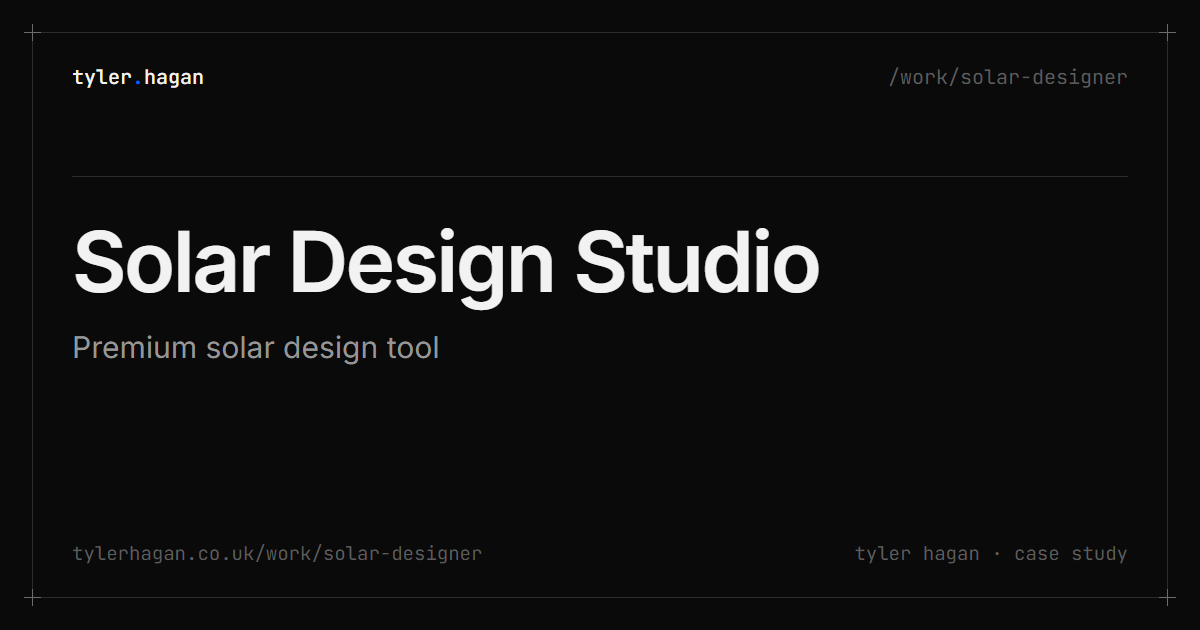
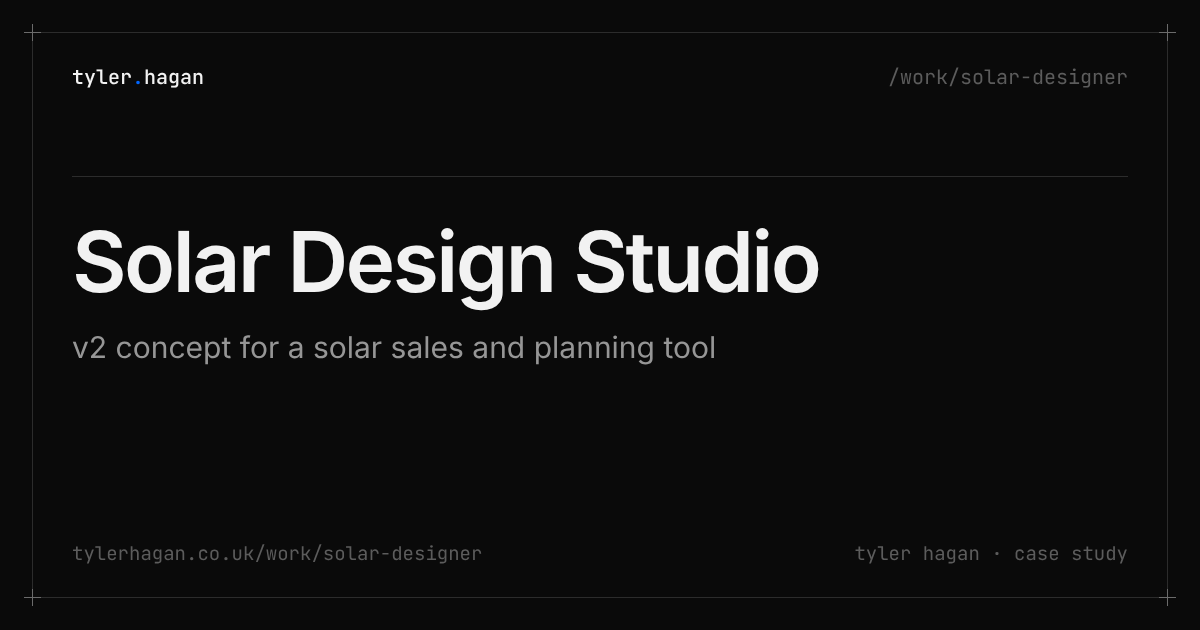
Solar Design Studio v2 case study
Replace the 2023 Solar Design Studio page with the v2 concept: one plan
checked live against installation rules, a planner workspace and an
answer-first customer view. Seven new figures, an annotated v1, and the
page now uses the sectioned case study layout shared with EIGENAPP v2.

diff --git a/src/utils/projectsData.js b/src/utils/projectsData.js
@@ -452,28 +452,148 @@ export const projectsData = {
 
   'solar-designer': {
     title: 'Solar Design Studio',
-    subtitle: 'Premium solar design tool',
-    summary: 'Premium solar design tool with Salesforce integration. Collaborated with engineering and sales to create intuitive design experience.',
-    year: '2023',
-    status: 'Active Use',
-    role: 'Senior Product Designer',
-    timeline: '2023',
-    tools: ['React', 'Figma', 'Salesforce', 'Prototyping', 'Usage Analysis', 'Storybook'],
+    subtitle: 'v2 concept for a solar sales and planning tool',
+    summary: 'A fresh concept for the solar design tool I shipped at EIGENSONNE: one plan checked live against installation rules, shown as a dense workspace for planners and a calm, answer-first view for the customer.',
+    year: '2026',
+    status: 'v1 in active use · v2 unreleased concept',
+    role: 'Product Designer (v1) · concept by me',
+    timeline: 'v1 2023 · concept 2026',
+    tools: ['Figma', 'React', 'Salesforce', 'Storybook', 'Prototyping'],
     company: 'EIGENSONNE',
-    platform: 'Web (Salesforce)',
-    scope: 'UX/UI, prototyping, usage analysis',
-    heroImage: { src: '/img/solar-designer/main-layout.webp', alt: 'Solar Design Studio main planning layout' },
-    overview: {
-      description: 'Collaborated closely with engineering, planning, and sales teams to develop a premium solar design tool with tight Salesforce integration.',
-      challenge: 'Sales teams needed a sophisticated design tool that felt approachable. The tool needed to be usable by power user planners, and by sales users in video and in-person sales calls.',
-      challengeImages: [
-        { src: '/img/solar-designer/loading.png', caption: 'Designer Loading from Customer Data' },
-        { src: '/img/solar-designer/select-planning.webp', caption: 'Existing Offer or New Offer with Photo' },
-        { src: '/img/solar-designer/quote-component.png', caption: 'Example quote item component' }
-      ],
-      solution: 'Designed a full-screen immersive interface with guided workflows. Leveraged AI tools to generate multiple design variations quickly. Built extensive prototype in Figma to validate interaction patterns.',
-      solutionImage: '/img/solar-designer/main-layout.webp'
-    },
-    impact: 'Significantly reduced error rates, increased sales call final conversion rates, reduced time to sale and improved NPS scores dramatically.'
+    platform: 'Web and tablet, inside the CRM',
+    scope: 'Product strategy, interaction model, UX, UI, design system',
+    outcomeTitle: 'Solar Design Studio v2: one plan, two conversations',
+    heroImage: { src: '/img/solar-designer-v2/01-hero-planner-and-tablet.webp', alt: 'Solar Design Studio v2: the planner workspace and the customer view on a tablet' },
+    brief: `Sales reps and planners shared one tool but not one truth. Reps could sell layouts that planners later had to redraw, and customers watched someone operate software instead of seeing their own home. v2 treats the plan as the product: one plan, checked live against installation rules, shown through two surfaces, a dense workspace for planners and a calm, answer-first view for the customer. Error prevention moves to the moment of selling, and a rep can go from an address to a sendable, installable offer in one call.`,
+    sections: [
+      {
+        title: 'Context',
+        paragraphs: [
+          `EIGENSONNE sold premium residential solar, mostly through video calls and home visits. Every sale depended on a design step: someone had to place panels on the customer's roof, choose an inverter and battery, and turn that into a price.`,
+          `I designed the first Solar Design Studio in 2023, about two years after moving from front-end engineering into product design. It lived inside Salesforce, loaded straight from the customer record, and had a simple mode for customer calls and a full mode for planners. It worked: fewer planning errors, more calls converting, a shorter time to sale and better NPS.`,
+          `Looking at it now, I can also see where it was an interface answer to a system problem. This concept is what I would design today.`
+        ]
+      },
+      {
+        title: 'What v1 got right, and where it fell short',
+        paragraphs: [
+          `v1 had good instincts. Loading from the CRM record removed retyping, two modes acknowledged two very different users, and the full-screen layout kept attention on the roof. Looking again:`
+        ],
+        bullets: [
+          `The photo was the hero, but not the truth. Panels drawn onto a facade photo looked convincing, but a perspective photo can't be measured. Planners often redrew layouts from scratch.`,
+          `Two modes, two tools. Simple and full mode were separate interfaces, so a change made in front of the customer didn't always survive into planning.`,
+          `Errors were found late. Setbacks, fire wall distances and string limits were checked after the call, when the customer already had a number in their head.`,
+          `Variations without a decision. We could generate several designs quickly, but nothing helped a rep compare them or explain why one was better.`,
+          `Interface over home. In customer mode the customer still looked at accordions of components rather than at their house and what it would do for them.`
+        ],
+        images: [
+          { src: '/img/solar-designer-v2/02-v1-before.webp', caption: 'v1 with four annotations' }
+        ]
+      },
+      {
+        title: "The job isn't drawing panels",
+        paragraphs: [
+          `The tool's real job is getting to a plan that is sellable and installable at the same time, ideally within one conversation. That changed the question from "how do we make drawing easier?" to "how do we make an uninstallable plan impossible to sell?"`,
+          `Two people use the tool for very different reasons. The rep needs speed, confidence and a story. The planner needs precision and a record of every decision. Both work on the same plan, so the plan became the core of the product and every screen became a view of it.`
+        ]
+      },
+      {
+        title: 'Principles for v2',
+        bullets: [
+          `One plan, many views. Planner workspace, customer view and offer all read and write the same plan. Nothing is copied between modes.`,
+          `Constraints are material. Installation rules shape what can be placed, live, instead of arriving as errors after the call.`,
+          `Show confidence. Anything detected automatically says how sure it is, and stays marked until a person confirms it.`,
+          `Answer first for the customer. Lead with what the system will do for this household. The hardware list is one tap away.`,
+          `Hand over, don't throw over. The offer leaves with everything planning needs, and says clearly what is still open.`
+        ]
+      },
+      {
+        title: 'Start from the address, not a blank roof',
+        paragraphs: [
+          `The customer record already holds the address, annual consumption and notes from the first contact. The studio opens on aerial imagery and an elevation model, detects roof planes with their pitch and orientation, and marks obstructions like chimneys and skylights. The rep keeps talking while it reads.`,
+          `Every detection carries a confidence level. Anything below high becomes a small confirm task, settled on the call with a photo from the customer. The facade photo from v1 survives, but as evidence rather than as the drawing surface.`
+        ],
+        images: [
+          { src: '/img/solar-designer-v2/03-reading-and-capture.webp', caption: 'Reading the roof, then the roof detected with one item to confirm' }
+        ]
+      },
+      {
+        title: 'Three options, each with a reason',
+        paragraphs: [
+          `Instead of a pile of generated variations, the studio proposes three options along one axis the customer understands: how independent do you want to be? Each is checked against every installation rule before it's shown.`,
+          `The recommended option carries a short, rule-based reason built from what we already know: their consumption, a planned electric car, the limits of the roof. Underneath, one chart answers the question customers always ask next: what about winter?`
+        ],
+        images: [
+          { src: '/img/solar-designer-v2/04-compare.webp', caption: 'Three valid options on one axis, with the month-by-month picture underneath' }
+        ]
+      },
+      {
+        title: "A workspace that won't let you build the wrong thing",
+        paragraphs: [
+          `The planner surface is dense on purpose. Modules snap to valid zones only, and keep-out areas (roof edges, fire wall distance, the skylight) are drawn on the roof instead of listed in a dialog. Strings are coloured in place, so layout and electrical design become one activity.`,
+          `A live checks panel separates what blocks installation from what only costs yield, and shows that cost in kWh per year. Shade is checked at the moments that matter, a winter morning or a summer evening, rather than played back like a timeline. Overrides are possible, but each one needs a reason and is flagged for review.`
+        ],
+        images: [
+          { src: '/img/solar-designer-v2/05-planner.webp', caption: 'Keep-out zones, strings in place, a refused placement and the sun and shade card' }
+        ]
+      },
+      {
+        title: 'The customer sees their home, not the tool',
+        paragraphs: [
+          `On a tablet at the kitchen table, or shared during a video call, the customer sees their own house with panels on it and one sentence that answers the question they actually have. The controls cover the decisions that matter to them: battery, wallbox, buy or rent.`,
+          `Every change recalculates against the same rules, so nothing a rep shows in the room can turn into a redraw later. On a call, the rep can point at the house while the customer follows on their own screen.`
+        ],
+        images: [
+          { src: '/img/solar-designer-v2/06-present-tablet-and-call.webp', caption: 'On a tablet for home visits, and shared on a video call' }
+        ]
+      },
+      {
+        title: 'An offer that knows what is still open',
+        paragraphs: [
+          `Sending the offer writes the plan, the price and a readiness check back to the CRM opportunity. Open items are visible to everyone (a missing photo of the meter cabinet, an override waiting for review), so the planner starts from a clear picture rather than a phone call.`,
+          `When the customer accepts, the handover completes on its own: a named planner, a provisional installation week and the grid registration submitted. The customer's confirmation repeats the same promise, and the rep has nothing left to chase.`
+        ],
+        images: [
+          { src: '/img/solar-designer-v2/07-offer-and-handover.webp', caption: 'Offer sent with one item open, then accepted and handed over' }
+        ]
+      },
+      {
+        title: 'Decisions and trade-offs',
+        bullets: [
+          `Aerial first, photo second. Aerial data can be measured and is ready before the first call. Photos are better for details like the meter cabinet. Using each for what it does well removes most redrawing.`,
+          `Guardrails with an escape hatch. Hard limits for reps, overrides with a reason for planners. Locking everything down would have pushed edge cases back into spreadsheets.`,
+          `No free 3D editing. A 3D roof is impressive, but most of the value comes from correct measurements. The planner gets a top-down plan and the customer an illustrated house: cheaper to build and easier to trust.`,
+          `Three options, not ten. More choice slows a call down. Three options on one axis give the rep a clear recommendation and the customer a real choice.`
+        ]
+      },
+      {
+        title: 'The system behind it',
+        bullets: [
+          `Quiet chrome, meaningful colour. The planner works in a dark graphite with a hint of petrol and a single steel-blue accent, so the roof and the energy colours carry the meaning: sun yellow for generation, green for battery, orange for cost and warnings, the same as EIGENAPP v2. Customer screens move to warm paper with the same accent.`,
+          `One brand, two sizes. The EIGENSONNE wordmark leads in the tool; the rounded house from EIGENAPP stands in wherever space is tight, so customers recognise it later in the app.`,
+          `Plan states as tokens. Detected, confirmed, override and blocked each have a colour, an icon and a text label, so meaning never depends on colour alone.`,
+          `Accessibility: real controls throughout, keyboard placement and nudging for modules, 44 px targets on the tablet view, and contrast checked in both themes.`
+        ]
+      },
+      {
+        title: 'How I would measure it',
+        paragraphs: [
+          `As an unreleased concept there are no results to report, so these are the measures I would set for a release:`
+        ],
+        bullets: [
+          `Share of sold plans changed by planners after the call, and by how much.`,
+          `Time from first call to sent offer, and offers sent during the first call.`,
+          `Close rate of calls that use the customer view against those that don't.`,
+          `Installation issues traced back to the design step.`
+        ]
+      },
+      {
+        title: 'Reflection',
+        paragraphs: [
+          `v1 taught me how much of a sale depends on one screen. Two years into product design, I solved for the interface: make drawing easy, make it look premium. Now I start from the system: what has to be true for a plan to be both sold and built, who needs to trust it, and where the errors come from. The screens follow from that.`,
+          `All screens use fictional customer, product and price data.`
+        ]
+      }
+    ]
   }
 };

diff --git a/src/pages/ProjectPage.jsx b/src/pages/ProjectPage.jsx
@@ -307,57 +307,8 @@ const ProjectPage = ({ projectId, onNavigate }) => {
           </>
         )}
 
-        {/* Solar Designer Content */}
-        {projectId === 'solar-designer' && (
-          <>
-            <div className="project-section">
-              <p>{project.overview.description}</p>
-              
-              <h3>Challenge</h3>
-              <p>{project.overview.challenge}</p>
-              
-              {/* Challenge Images - 2 images in grid */}
-              <h4>Screens</h4>
-              <p>Utilising 2 modes, one for sales and one for advanced planning users. To enable a simpler refined view for customer facing moments, without hindering the power users. Loading directly from the customer/order in the CRM &#40;Salesforce&#41;.</p>
-              {project.overview.challengeImages && (
-                <div className="project-images">
-                  {project.overview.challengeImages.map((img, i) => (
-                    <div key={i} className="captioned-image">
-                      <img 
-                        {...responsive(img.src, SIZES.projectGrid)} 
-                        alt={img.caption} 
-                        className="project-image clickable" 
-                        onClick={() => openLightbox(img.src, img.caption)}
-                      />
-                      <p className="image-caption">{img.caption}</p>
-                    </div>
-                  ))}
-                </div>
-              )}
-              
-              <h3>Solution</h3>
-              <p>{project.overview.solution}</p>
-              
-              {/* Solution Image - Full width */}
-              {project.overview.solutionImage && (
-                <img 
-                  {...responsive(project.overview.solutionImage, SIZES.projectFull)} 
-                  alt="Solar Designer Solution" 
-                  className="project-image-full clickable" 
-                  onClick={() => openLightbox(project.overview.solutionImage, 'Solar Designer Solution')}
-                />
-              )}
-            </div>
-
-            <div className="project-section">
-              <h2>Impact</h2>
-              <p>{project.impact}</p>
-            </div>
-          </>
-        )}
-
-        {/* Sectioned case studies: Enpal product surfaces, EIGENAPP v2 */}
-        {(projectId === 'enpal-product-work' || projectId === 'monitoring-app') && (
+        {/* Sectioned case studies: Enpal product surfaces, EIGENAPP v2, Solar Design Studio v2 */}
+        {(projectId === 'enpal-product-work' || projectId === 'monitoring-app' || projectId === 'solar-designer') && (
           <>
             <div className="project-section">
               <h2>Overview</h2>

diff --git a/src/pages/HomePage.jsx b/src/pages/HomePage.jsx
@@ -109,10 +109,10 @@ const HomePage = ({ onNavigate }) => {
     {
       id: 'solar-designer',
       title: 'Solar Design Studio',
-      year: '2023',
-      type: 'SaaS Platform',
-      tags: ['React', 'Figma', 'Salesforce', 'Storybook'],
-      image: '/img/solar-designer/main-layout.webp'
+      year: '2026',
+      type: 'Sales & Planning Tool',
+      tags: ['Concept', 'Figma', 'Salesforce', 'Design System'],
+      image: '/img/solar-designer-v2/01-hero-planner-and-tablet.webp'
     },
     {
       id: 'monitoring-app',
